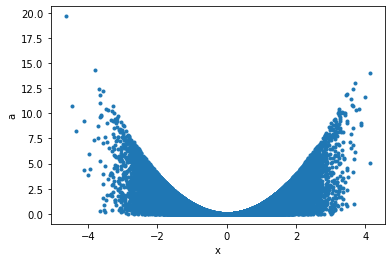
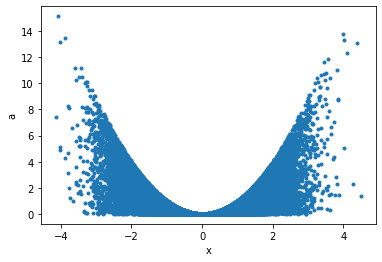
update readme

diff --git a/README.md b/README.md
@@ -1,9 +1,6 @@
-# Dragoman
-<img align="right" src="https://raw.githubusercontent.com/philippeller/dama/master/dama.png" alt="Dragoman" width=150>
+# dama - Data Manipulator
 
-> A dama was an interpreter, translator, and official guide between Turkish, Arabic, and Persian-speaking countries and polities of the Middle East and European embassies, consulates, vice-consulates and trading posts. A dama had to have a knowledge of Arabic, Persian, Turkish, and European languages. (Source: wikipedia)
-
-Similarly, the dama python library guides you through your data and translates between different representations.
+The dama python library guides you through your data and translates between different representations.
 Its aim is to offer a consistant and pythonic way to handle different datasaets and translations between them.
 A dataset can for instance be simple colum/row data, or it can be data on a grid.
 
@@ -12,7 +9,6 @@ Convenience `pyplot` plotting functions are also available, in order to produce 
 
 ## Installation
 
-* `git clone git@github.com:philippeller/dama.git`
 * `pip install dama`
 
 ## Getting Started
@@ -59,7 +55,7 @@ g.plot(cbar=True);
 
 
     
-![png](https://raw.githubusercontent.com/philippeller/dama/master/https://raw.githubusercontent.com/philippeller/dama/master/README_files/README_10_0.png)
+![png](https://raw.githubusercontent.com/philippeller/dama/master/README_files/README_10_0.png)
     
 
 
@@ -72,7 +68,7 @@ g.interp(x=200, y=200).plot(cbar=True);
 
 
     
-![png](https://raw.githubusercontent.com/philippeller/dama/master/https://raw.githubusercontent.com/philippeller/dama/master/README_files/README_12_0.png)
+![png](https://raw.githubusercontent.com/philippeller/dama/master/README_files/README_12_0.png)
     
 
 
@@ -144,7 +140,7 @@ np.sum(g[10::-1, :np.pi:2].T, axis='x')
 
 
 ### Comparison
-As comparison to point out the convenience, an alternative way without using Dragoman to achieve the above would look something like the follwoing for creating and plotting the array:
+As comparison to point out the convenience, an alternative way without using `dama` to achieve the above would look something like the follwoing for creating and plotting the array:
 > ```
 > x = np.linspace(0,3*np.pi, 30)
 > y = np.linspace(0,2*np.pi, 20) 
@@ -203,8 +199,8 @@ p
 
 <table>
 <tbody>
-<tr><td><b>x</b></td><td style="text-align: right;">-0.0697  </td><td style="text-align: right;">-0.311 </td><td style="text-align: right;">-0.439 </td><td>...</td><td style="text-align: right;">-0.0637 </td><td style="text-align: right;">-0.455</td><td style="text-align: right;">0.399 </td></tr>
-<tr><td><b>a</b></td><td style="text-align: right;"> 0.000593</td><td style="text-align: right;"> 0.0533</td><td style="text-align: right;"> 0.0693</td><td>...</td><td style="text-align: right;"> 0.00173</td><td style="text-align: right;"> 0.046</td><td style="text-align: right;">0.0425</td></tr>
+<tr><td><b>x</b></td><td style="text-align: right;">-0.362 </td><td style="text-align: right;">1.44</td><td style="text-align: right;">1.26</td><td>...</td><td style="text-align: right;">0.311 </td><td style="text-align: right;">-0.43  </td><td style="text-align: right;">0.249 </td></tr>
+<tr><td><b>a</b></td><td style="text-align: right;"> 0.0771</td><td style="text-align: right;">1.21</td><td style="text-align: right;">1.18</td><td>...</td><td style="text-align: right;">0.0836</td><td style="text-align: right;"> 0.0183</td><td style="text-align: right;">0.0133</td></tr>
 </tbody>
 </table>
 
@@ -217,7 +213,7 @@ p.plot()
 
 
     
-![png](https://raw.githubusercontent.com/philippeller/dama/master/https://raw.githubusercontent.com/philippeller/dama/master/README_files/README_23_0.png)
+![png](https://raw.githubusercontent.com/philippeller/dama/master/README_files/README_23_0.png)
     
 
 
@@ -230,7 +226,7 @@ p.plot('x', 'a', '.');
 
 
     
-![png](https://raw.githubusercontent.com/philippeller/dama/master/https://raw.githubusercontent.com/philippeller/dama/master/README_files/README_25_0.png)
+![png](https://raw.githubusercontent.com/philippeller/dama/master/README_files/README_25_0.png)
     
 
 
@@ -246,8 +242,8 @@ p.binwise(x=20).sum()
 
 <table>
 <tbody>
-<tr><td><b>x</b></td><td><b>[-4.646 -4.207]</b></td><td><b>[-4.207 -3.768]</b></td><td><b>[-3.768 -3.328]</b></td><td>...</td><td><b>[2.821 3.26 ]</b></td><td><b>[3.26  3.699]</b></td><td><b>[3.699 4.139]</b></td></tr>
-<tr><td><b>a</b></td><td>38.7                  </td><td>49.5                  </td><td>197                   </td><td>...</td><td>953                 </td><td>310                 </td><td>82.3                </td></tr>
+<tr><td><b>x</b></td><td><b>[-4.133 -3.702]</b></td><td><b>[-3.702 -3.271]</b></td><td><b>[-3.271 -2.84 ]</b></td><td>...</td><td><b>[3.196 3.627]</b></td><td><b>[3.627 4.058]</b></td><td><b>[4.058 4.489]</b></td></tr>
+<tr><td><b>a</b></td><td>90.8                  </td><td>212                   </td><td>910                   </td><td>...</td><td>354                 </td><td>98.6                </td><td>29.1                </td></tr>
 </tbody>
 </table>
 
@@ -260,7 +256,7 @@ p.binwise(x=20).sum().plot();
 
 
     
-![png](https://raw.githubusercontent.com/philippeller/dama/master/https://raw.githubusercontent.com/philippeller/dama/master/README_files/README_28_0.png)
+![png](https://raw.githubusercontent.com/philippeller/dama/master/README_files/README_28_0.png)
     
 
 
@@ -276,8 +272,8 @@ p.histogram(x=20).a
 
 <table>
 <tbody>
-<tr><td><b>x</b></td><td><b>[-4.646 -4.207]</b></td><td><b>[-4.207 -3.768]</b></td><td><b>[-3.768 -3.328]</b></td><td>...</td><td><b>[2.821 3.26 ]</b></td><td><b>[3.26  3.699]</b></td><td><b>[3.699 4.139]</b></td></tr>
-<tr><td><b></b> </td><td>38.7                  </td><td>49.5                  </td><td>197                   </td><td>...</td><td>953                 </td><td>310                 </td><td>82.3                </td></tr>
+<tr><td><b>x</b></td><td><b>[-4.133 -3.702]</b></td><td><b>[-3.702 -3.271]</b></td><td><b>[-3.271 -2.84 ]</b></td><td>...</td><td><b>[3.196 3.627]</b></td><td><b>[3.627 4.058]</b></td><td><b>[4.058 4.489]</b></td></tr>
+<tr><td><b></b> </td><td>90.8                  </td><td>212                   </td><td>910                   </td><td>...</td><td>354                 </td><td>98.6                </td><td>29.1                </td></tr>
 </tbody>
 </table>
 
@@ -304,7 +300,7 @@ p.kde(x=1000).a.plot();
 
 
     
-![png](https://raw.githubusercontent.com/philippeller/dama/master/https://raw.githubusercontent.com/philippeller/dama/master/README_files/README_33_0.png)
+![png](https://raw.githubusercontent.com/philippeller/dama/master/README_files/README_33_0.png)
     
 
 
@@ -317,7 +313,7 @@ p.binwise(x=20).quantile(q=[0.1, 0.3, 0.5, 0.7, 0.9]).plot_bands()
 
 
     
-![png](https://raw.githubusercontent.com/philippeller/dama/master/https://raw.githubusercontent.com/philippeller/dama/master/README_files/README_35_0.png)
+![png](https://raw.githubusercontent.com/philippeller/dama/master/README_files/README_35_0.png)
     
 
 
@@ -330,7 +326,7 @@ p.binwise(x=np.linspace(-3,3,10)).quantile(q=[0.1, 0.3, 0.5, 0.7, 0.9]).plot_ban
 
 
     
-![png](https://raw.githubusercontent.com/philippeller/dama/master/https://raw.githubusercontent.com/philippeller/dama/master/README_files/README_37_0.png)
+![png](https://raw.githubusercontent.com/philippeller/dama/master/README_files/README_37_0.png)
     
 
 
@@ -343,6 +339,6 @@ p.binwise(x=dm.Edges(np.linspace(-3,3,10))).quantile(q=[0.1, 0.3, 0.5, 0.7, 0.9]
 
 
     
-![png](https://raw.githubusercontent.com/philippeller/dama/master/https://raw.githubusercontent.com/philippeller/dama/master/README_files/README_39_0.png)
+![png](https://raw.githubusercontent.com/philippeller/dama/master/README_files/README_39_0.png)
     
 
